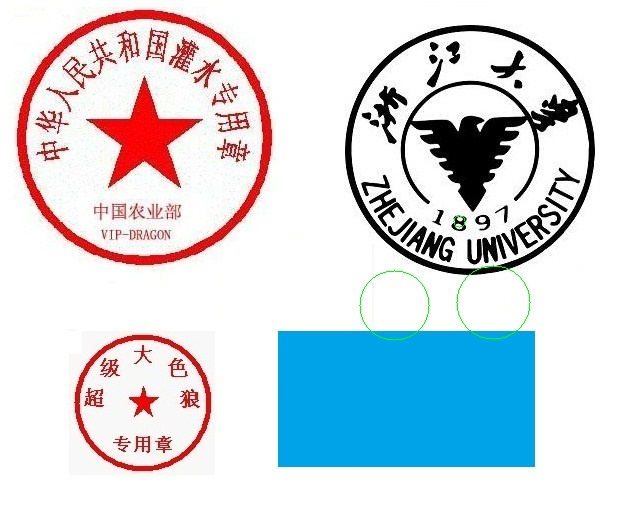
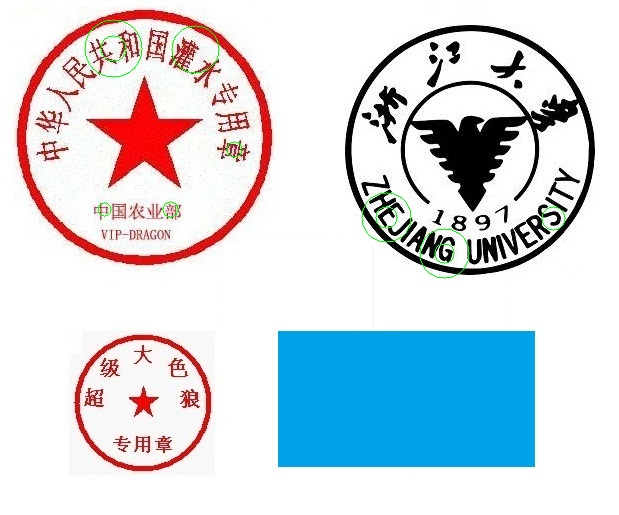
基本实现圆形检测
基本实现圆形检测，等待优化

diff --git a/作业2：直线与圆弧检测/main.py b/作业2：直线与圆弧检测/main.py
@@ -77,66 +77,7 @@ def lineDetection(img: np.ndarray, edges: np.ndarray) -> None:
 
 
 def circleDetection(img: np.ndarray, gray: np.ndarray, edges: np.ndarray) -> None:
-    # 令每个边缘点给最近的圆心投票
-    grossCenters = centerDetection(img, gray, edges)
-    # todo: 筛选算法优化
-    centers = []
-    for i in range(0, len(grossCenters)):
-        centers.append(Center(grossCenters[i]))
-    for y in range(0, edges.shape[0]):
-        for x in range(0, edges.shape[1]):
-            if edges[y][x] == 0:
-                continue
-            p = (x, y)
-            nearestCenter = findNearestCenter(p, grossCenters)
-            for i in range(0, len(centers)):
-                if centers[i].equals(Center(nearestCenter)):
-                    centers[i].distances.append(Util.distance(p, nearestCenter))
-    # 筛选出票数大于阈值的中心
-    N_VOTE_T = min(img.shape[0], img.shape[1]) / 32 * math.pi
-    i = 0
-    while i < len(centers):
-        if len(centers[i].distances) < N_VOTE_T:
-            centers.remove(centers[i])
-            i -= 1
-        i += 1
-    # 在原图的副本上标出筛选过的圆心
-    img_copy = np.array(img)
-    for i in range(0, len(centers)):
-        cv2.circle(img_copy, centers[i].pos, 2, CENTER_COLOR, thickness=-1)
-    cv2.imwrite("Img with Screened Centers.jpg", img_copy)
-    # 分析半径，标点
-    RADIUS_T = min(img.shape[0], img.shape[1]) / 128
-    for i in range(0, len(centers)):
-        center = centers[i]
-        analyzeRadii(center, RADIUS_T)
-        for j in range(0, len(center.radii)):
-            cv2.circle(img, center.pos, round(center.radii[j]), CIRCLE_COLOR)
-    cv2.imwrite("Img with Circles.jpg", img)
-    cv2.imshow(WINDOW_NAME, img)
-    cv2.waitKey(0)
-
-
-def analyzeRadii(c: Center, T: float) -> None:
-    """
-    分析围绕给定圆心的圆的半径\n
-    :param c:
-    :return:
-    """
-    c.distances.sort()
-    dists = [c.distances[0]]
-    for i in range(1, len(c.distances)):
-        # 与上一个选中的距离差距不大，纳入此半径的计算
-        if abs(c.distances[i] - dists[-1]) < T:
-            dists.append(c.distances[i])
-        else:
-            c.radii.append(np.mean(dists))
-            dists = [c.distances[i]]
-
-
-def centerDetection(img: np.ndarray, gray: np.ndarray, edges: np.ndarray) -> list:
-    accumMat = np.zeros(gray.shape, int)  # 圆心与边缘的距离大于图像本身尺度时舍弃
-    # 计算x、y方向的微分
+    # 计算梯度方向
     sobelX = cv2.Sobel(gray, cv2.CV_64F, 1, 0, ksize=3)
     sobelY = cv2.Sobel(gray, cv2.CV_64F, 0, 1, ksize=3)
     cv2.imwrite("Sobel X.jpg", sobelX)
@@ -148,6 +89,62 @@ def centerDetection(img: np.ndarray, gray: np.ndarray, edges: np.ndarray) -> lis
                 continue
             else:
                 tanMat[i][j] = sobelY[i][j] / sobelX[i][j]
+    # 得到粗选后的圆心
+    grossCenters = grossCenterDetection(img, gray, edges, tanMat)
+    centers = []
+    for i in range(0, len(grossCenters)):
+        centers.append(Center(grossCenters[i]))
+    # 筛选出圆弧上的点
+    ARC_T = min(img.shape[0], img.shape[1]) / 64
+    arcEdges = np.array(edges)
+    for y in range(0, arcEdges.shape[0]):
+        for x in range(0, arcEdges.shape[1]):
+            if arcEdges[y][x] == 0:
+                continue
+            p = (x, y)
+            nearestCenter = findNearestCenter(p, grossCenters)
+            if not isOnArc(p, nearestCenter, tanMat, ARC_T):
+                arcEdges[y][x] = 0
+    cv2.imwrite("Arc Edges.jpg", arcEdges)
+    cv2.imshow(WINDOW_NAME, arcEdges)
+    cv2.waitKey(0)
+    # 令每个圆弧上的边缘点给最近的圆心投票
+    for y in range(0, arcEdges.shape[0]):
+        for x in range(0, arcEdges.shape[1]):
+            if arcEdges[y][x] == 0:
+                continue
+            p = (x, y)
+            nearestCenter = findNearestCenter(p, grossCenters)
+            for i in range(0, len(centers)):
+                if centers[i].equals(Center(nearestCenter)):
+                    centers[i].distances.append(Util.distance(p, nearestCenter))
+    # 筛选出票数大于阈值的中心
+    N_VOTE_T = min(img.shape[0], img.shape[1]) / 16 * math.pi
+    i = 0
+    while i < len(centers):
+        if len(centers[i].distances) < N_VOTE_T:
+            centers.remove(centers[i])
+            i -= 1
+        i += 1
+    # 在原图的副本上标出筛选过的圆心
+    img_copy = np.array(img)
+    for i in range(0, len(centers)):
+        cv2.circle(img_copy, centers[i].pos, 2, CENTER_COLOR, thickness=-1)
+    cv2.imwrite("Img with Screened Centers.jpg", img_copy)
+    # 分析半径，绘制圆形
+    RADIUS_DIST_T = min(img.shape[0], img.shape[1]) / 32
+    for i in range(0, len(centers)):
+        center = centers[i]
+        analyzeRadii(center, RADIUS_DIST_T, N_VOTE_T)
+        for j in range(0, len(center.radii)):
+            cv2.circle(img, center.pos, round(center.radii[j]), CIRCLE_COLOR)
+    cv2.imwrite("Img with Circles.jpg", img)
+    cv2.imshow(WINDOW_NAME, img)
+    cv2.waitKey(0)
+
+
+def grossCenterDetection(img: np.ndarray, gray: np.ndarray, edges: np.ndarray, tanMat: np.ndarray) -> list:
+    accumMat = np.zeros(gray.shape, int)  # 圆心与边缘的距离大于图像本身尺度时舍弃
     # 计算累加器矩阵
     for y in range(0, edges.shape[0]):
         for x in range(0, edges.shape[1]):
@@ -171,6 +168,46 @@ def centerDetection(img: np.ndarray, gray: np.ndarray, edges: np.ndarray) -> lis
         cv2.circle(img_copy, pairList[i], 2, CENTER_COLOR, thickness=-1)  # thickness为负值时，填充圆形
     cv2.imwrite("Img with Gross Centers.jpg", img_copy)
     return pairList
+
+
+def isOnArc(p: tuple, center: tuple, tanMat: np.ndarray, T: float) -> bool:
+    """
+    验证给定点p是否是以center为中心的圆上的点\n
+    :param p:
+    :param center:
+    :param tanMat:
+    :param T:
+    :return:
+    """
+    px = p[0]
+    py = p[1]
+    cx = center[0]
+    cy = center[1]
+    tan = tanMat[py][px]
+    C = py - tan * px
+    dist = abs(tan * cx - cy + C) / math.sqrt(1 + tan * tan)
+    return dist < T
+
+
+def analyzeRadii(c: Center, DIST_T: float, VOTE_T: float) -> None:
+    """
+    分析围绕给定圆心的圆的半径\n
+    :param c:
+    :return:
+    """
+    c.distances.sort()
+    dists = [c.distances[0]]
+    for i in range(1, len(c.distances)):
+        # 与第一个选中的距离差距不大，纳入此半径的计算
+        if abs(c.distances[i] - dists[0]) < DIST_T:
+            dists.append(c.distances[i])
+        else:
+            # 确保此半径确实是圆弧上的点产生的，只有票数大于阈值时才入选
+            if len(dists) > VOTE_T:
+                c.radii.append(np.mean(dists))
+            dists = [c.distances[i]]
+    if len(dists) > VOTE_T:
+        c.radii.append(np.mean(dists))
 
 
 def findNearestCenter(p: tuple, centers: list) -> tuple:
@@ -221,7 +258,7 @@ def pickPairs_center(accumMat: np.ndarray, imgShape: tuple, mode: SuppressionMod
         return pairList
     list.sort(reverse=True)
     # 选取局部最大点。具体算法是先选中票数最多的点，在其之后距离小于阈值的点全部舍弃
-    DISTANCE_T = min(imgShape[0], imgShape[1]) / 16
+    DISTANCE_T = min(imgShape[0], imgShape[1]) / 8
     pairList.append(list[0][1])
     for i in range(1, len(list)):
         p = list[i][1]
